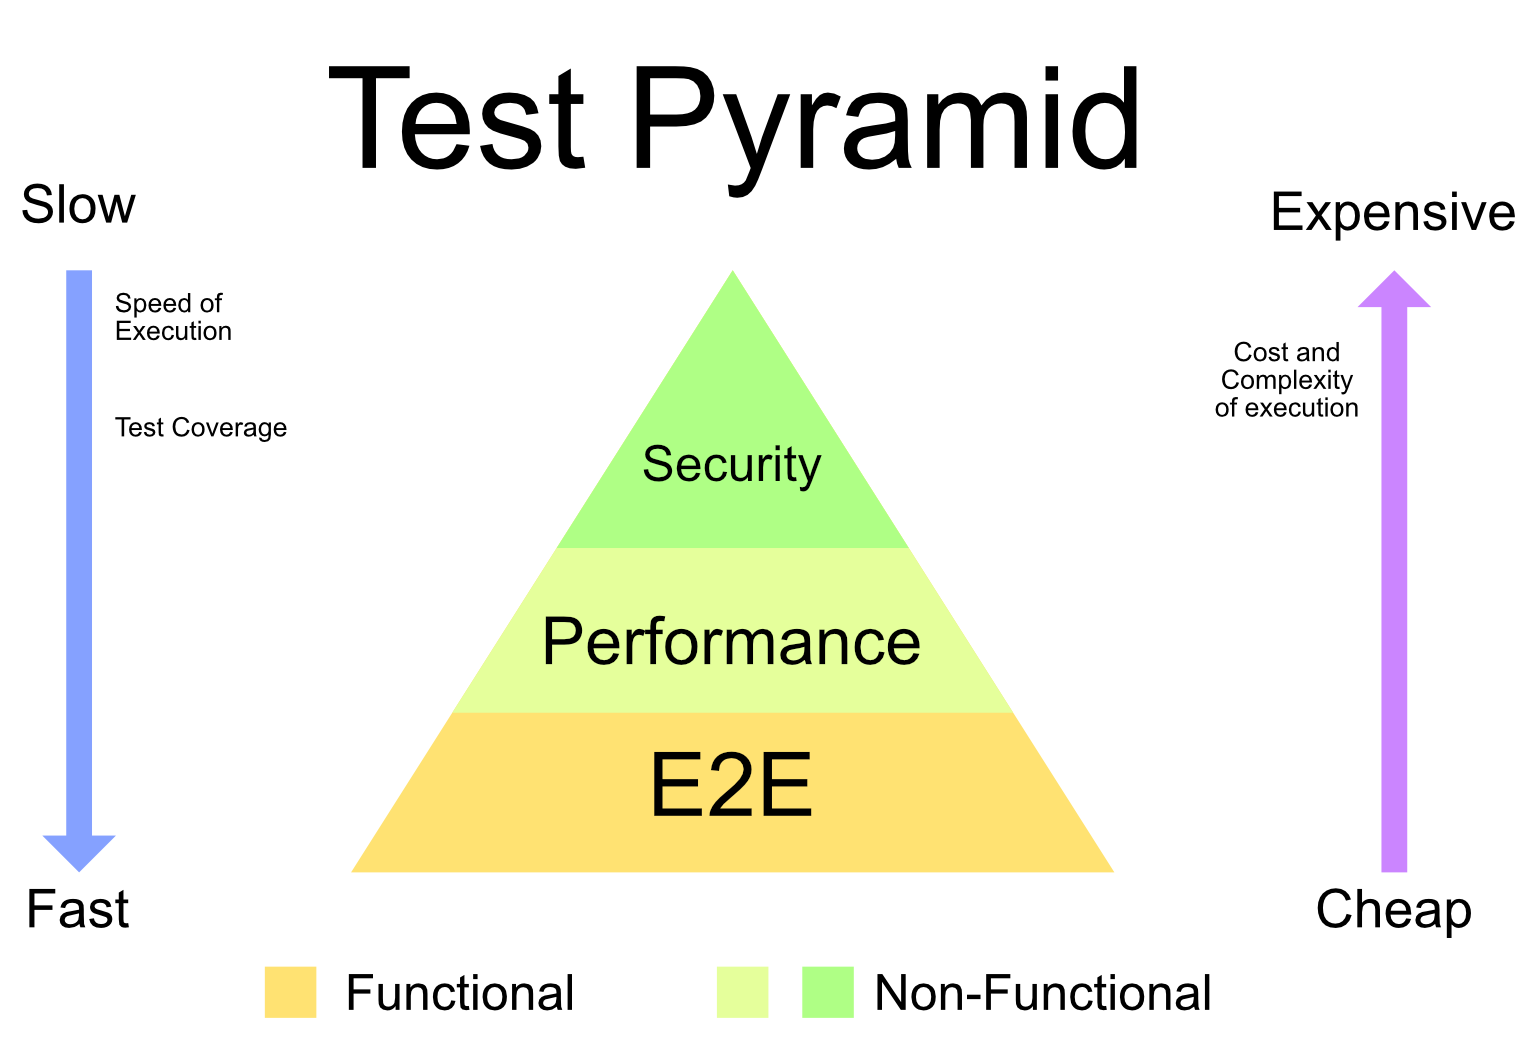
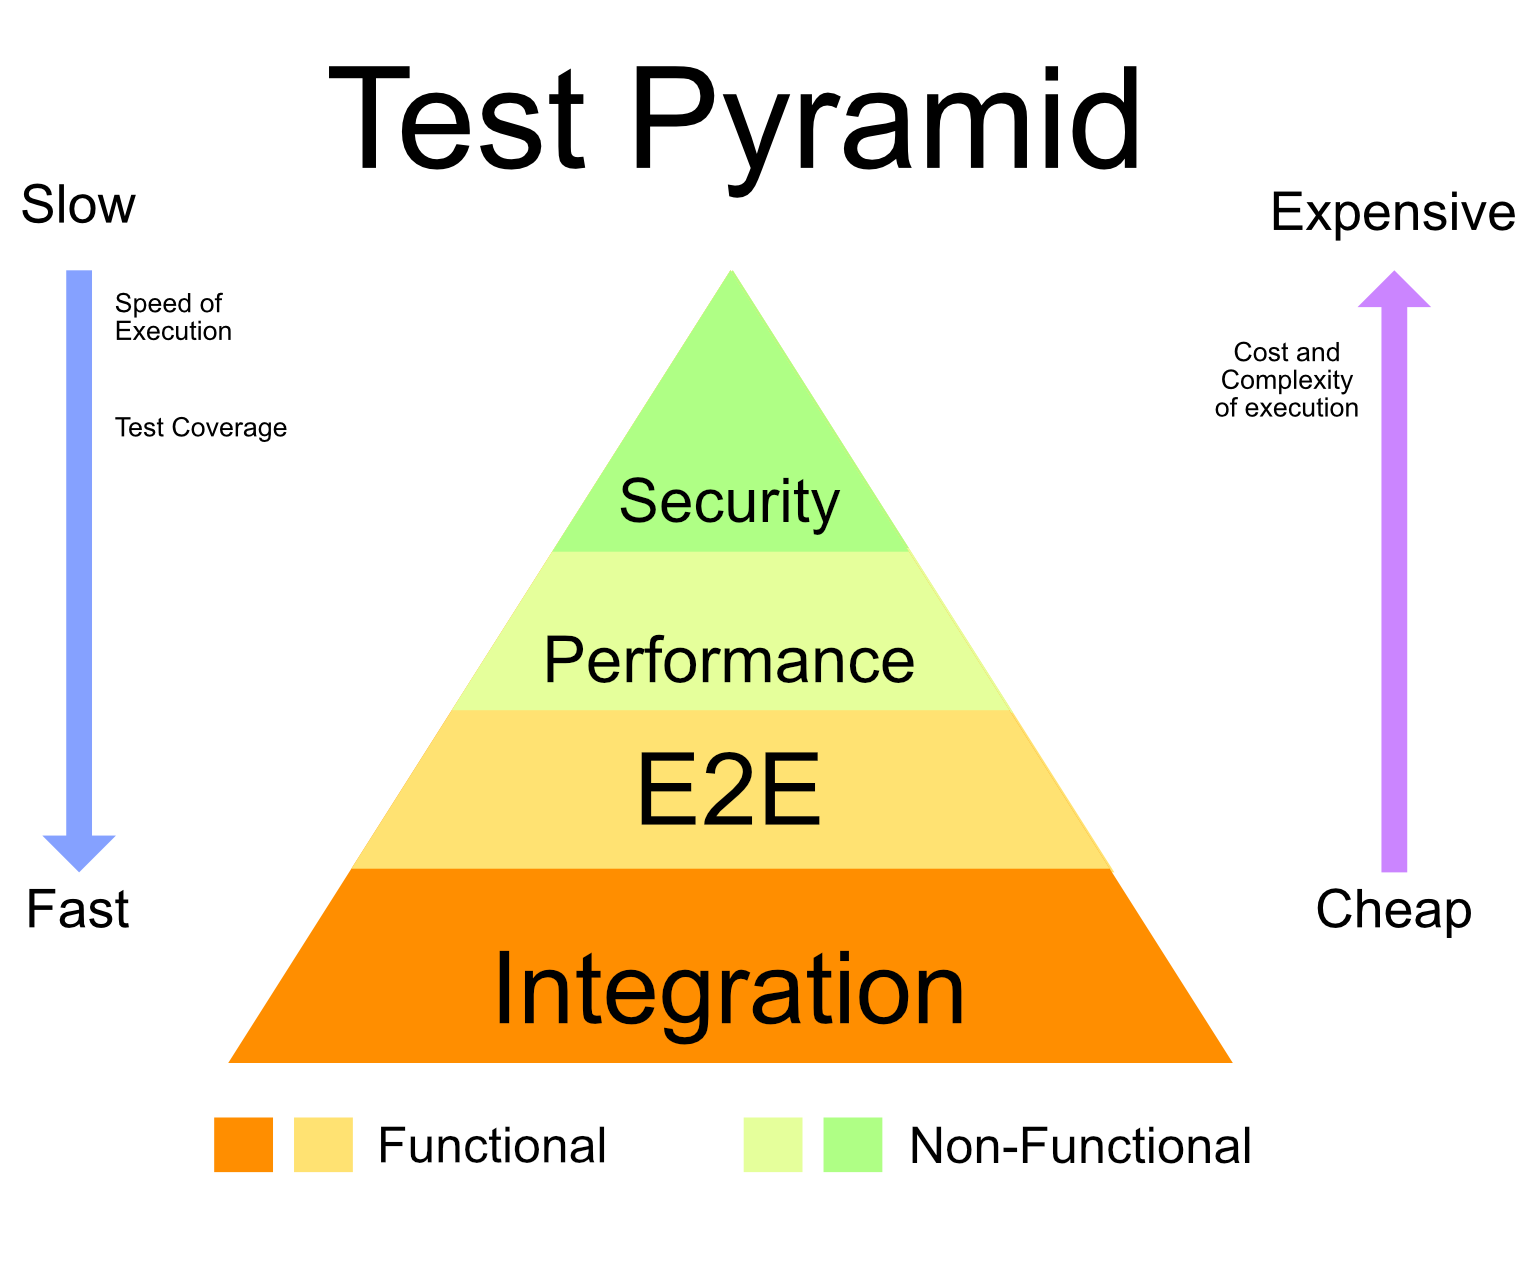
Phase 1 — Test Strategy & Architecture (#3)
- Bugs were reported based on my best knowledge
- Documentation was updated to comply with inserted integration tests

diff --git a/bugs/Functional.md b/bugs/Functional.md
@@ -1,0 +1,73 @@
+# FB1 - Protect /metrics endpoint
+
+| Key                | Value          |
+| ------------------ | -------------- |
+| Category           | Secutiry       |
+| Component          | Authentication |
+| Suggested Priority | High           |
+| Severity           | Critical       |
+| Environment        | Local          |
+
+
+## Description
+  I will assume the usage of ***/metrics*** endpoint retrieves sensitive information and the imaginary documentation for the application is stating that it shouldn't be protected. Therefore, it is highly suggested to protect due its sensitive nature. Meaning, only when user is authenticated, it should be able to access such endpoint.
+  
+  For the time being, integration test on [authentication.feature](../functional.repository/src/test/resources/me/jsperafico/sap/assignment/integration/authentication.feature) was writen as is. In other words, it isn't assumed this Bug will be accepted.
+
+## Steps to reproduce
+  1) Using ***HTTP GET*** method on ***/metrics***
+  2) Accepts the request event **without** authentication
+
+
+---
+
+
+# FB2 - Protect /logs/:id endpoint
+
+| Key                | Value          |
+| ------------------ | -------------- |
+| Category           | Secutiry       |
+| Component          | Authentication |
+| Suggested Priority | High           |
+| Severity           | Critical       |
+| Environment        | Local          |
+
+
+## Description
+  I will assume the usage of ***/logs/:id*** endpoint retrieves sensitive information and the imaginary documentation for the application is stating that it shouldn't be protected. Therefore, it is highly suggested to protect due its sensitive nature. Meaning, only when user is authenticated, it should be able to access such endpoint.
+  
+  For the time being, integration test on [authentication.feature](../functional.repository/src/test/resources/me/jsperafico/sap/assignment/integration/authentication.feature) was writen as is. In other words, it isn't assumed this Bug will be accepted.
+
+## Steps to reproduce
+  1) Using ***HTTP GET*** method on ***/logs/:id***
+  2) Accepts the request event **without** authentication
+
+
+---
+
+
+# FB3 - Processed status and metric may lead to unwanted assumptions
+
+| Key                | Value      |
+| ------------------ | ---------- |
+| Category           | Functional |
+| Component          | Logs       |
+| Suggested Priority | Low        |
+| Severity           | Low        |
+| Environment        | Local      |
+
+
+## Description
+  Assuming the **Processed** status was purposily chosen as indicator of success during intial Software Analysis. Hereby I challenge this decision since it may cause unwanted assumption. Whenever a log is submitted through ***POST /logs***, it stays in the state of ***QUEUED***. Once logically processed, regardless if any issues had occured, the entity was processed. Hence the confusion.
+
+  It is highly suggested for the state on this entity to be changed from ***PROCESSED*** to ***SUCCESSFUL*** or any other affirmative word the team feels suitable.
+
+## Steps to reproduce
+  1) Authenticate ***/auth/token***
+  2) Using ***HTTP POST*** method on ***/logs***
+  3) Returns the ***QUEUED*** status
+  4) After a wait time over 5 seconds
+  5) Retrieving the information through ***HTTP GET*** method on ***/logs:id***
+  6) Returns the ***PROCESSED*** status
+  7) Retrieving the information through ***HTTP GET*** method on ***/metrics***
+  8) Returns the ***PROCESSED*** field, that doesn't indicate - logically - how many entries were processed regardless of their status.

diff --git a/docs/test-strategy.md b/docs/test-strategy.md
@@ -40,7 +40,11 @@ The depiction above, still follows the general idea of a Test Pyramid being:
 ### Functional Testing
 
 A Functional Test verifies that the system behaves according to defined requirements by validating features, inputs, and expected outputs.
-There are several different types that have been ommited during this document, simply because goes out of scope. Among them, are Unit tests, Integration Tests, Component Tests, Contract tests and User Acceptance Tests.
+There are several different types that have been ommited during this document, simply because goes out of scope. Among them, are Unit tests, Component Tests, Contract tests and User Acceptance Tests.
+
+#### Integration Test
+
+An integration test verifies that multiple components or services work together correctly, focusing on their interactions, data flow, and integration points rather than isolated functionality.
 
 #### E2E Test
 
